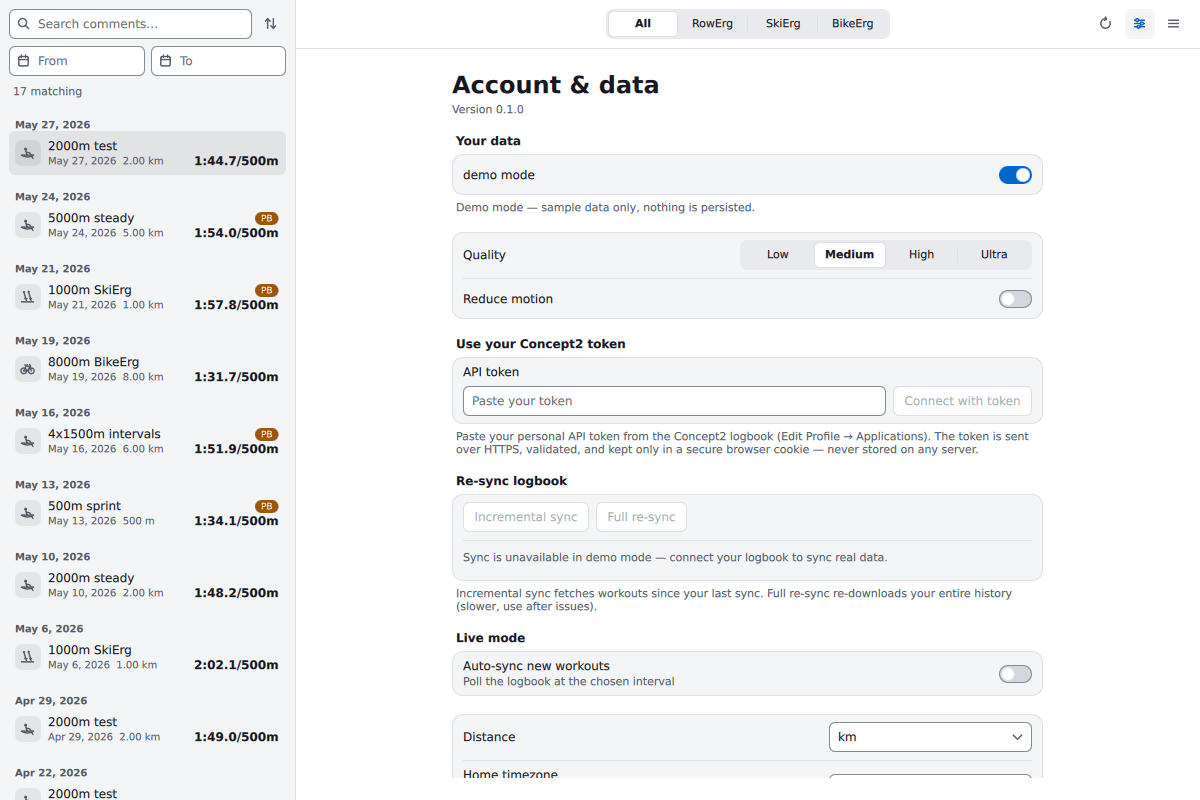
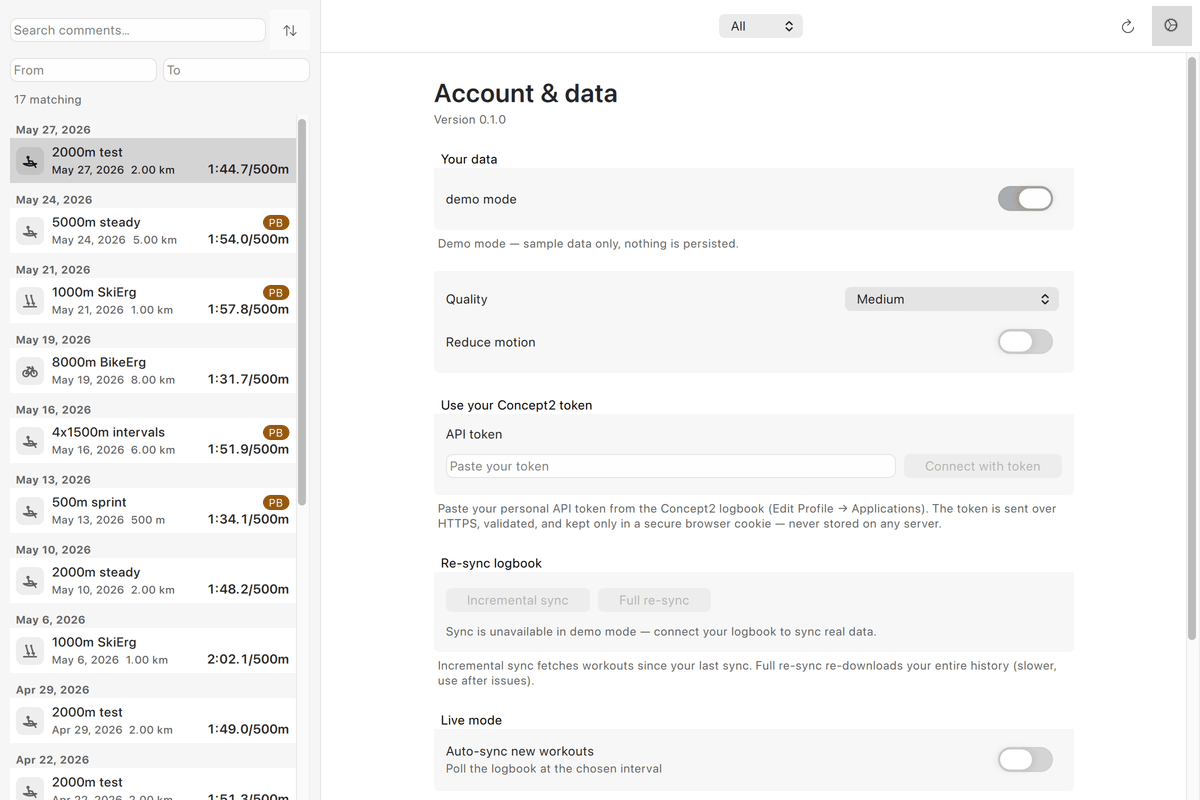
docs: the design system page, ADR 0015's verification record, round 3's notes and native README screenshots
docs/design-system.md holds the six principles (accessible by
construction; native by default; our identity lives in the content; Qt
before custom code; relative to the system; same product, native
manners). It also maps platform behaviour to the Qt API that provides it,
gives the style, icons, palette, checks and known issues per platform,
and lists what stays ours. AGENTS.md points UI work there first.

ADR 0015 records what was checked where:
- macOS natively: the full gate walk, the text-fit matrix, the large
  widths and real input through QtTest's TestEvent;
- Windows: CI's captures, where the Windows style is unreadable under the
  dark scheme and FluentWinUI3 is not;
- Linux: CI under Xvfb, with dark through Fusion on macOS;
- left for the owner: a non-blue accent, Increase Contrast and the native
  menu bar's roles.

ADR 0013 gets round 3's notes: what became of 2a to 2f once standard
controls went native. The README's screenshots are the native macOS
captures, light and dark, 1200 x 800 as before. The spec's T9 and the
roadmap follow.

diff --git a/docs/design-system.md b/docs/design-system.md
@@ -1,0 +1,104 @@
+# The design system
+
+rowplay-qt looks like each platform's app: its standard controls are Qt Quick
+Controls in the platform's own style. It looks like rowplay in its content:
+the charts, the metric colours, the tiles and personal-best cards, the splits
+table, and the 3D replay with its HUD.
+
+The decisions behind this page:
+- [ADR 0015](decisions/0015-native-qt-styles.md): native Qt styles for
+  standard controls.
+- [ADR 0013](decisions/0013-cross-platform-design-system.md): kept for the
+  type scale, the lengths, the width classes, the focus ring on our own
+  focusables and the contrast floors.
+
+The rules for writing QML are in [AGENTS.md](../AGENTS.md) ("Coding style"),
+and the history is in the spec `.kiro/specs/ui-native-styles/`.
+
+## Six principles
+
+1. **Accessible by construction.** Accessibility is built into every
+   control, not added after.
+   - Every control and tile has an `Accessible.name`, and the styles give
+     the controls their platform roles.
+   - Text meets 4.5:1 and our marks 3:1 on the surfaces they are drawn on,
+     and no text is set under `Theme.textFloor`.
+   - Focus is always visible: the style draws it on its controls and
+     `FocusRing` on ours.
+   - Nothing is conveyed by colour alone and nothing is reachable only by
+     hover.
+   - Motion stills under reduce motion.
+   - The replay HUD's controls answer within 40 px.
+2. **Native by default.**
+   - A standard control is the platform style's, used as it is: no
+     `background` or `contentItem` of ours.
+   - Icons are the platform's, named. A dialog's buttons follow the
+     platform's order. macOS gets its menu bar.
+3. **Our identity lives in the content.**
+   - The PM5 palette and the Metric Mapping Rule colour the metrics.
+   - Tiles, cards, the splits table, the charts and the replay are drawn
+     by us.
+   - That is where rowplay looks like rowplay.
+4. **Qt before custom code.** Where Qt has an API for a platform behaviour
+   (a shortcut, its notation, a dialog's buttons, an icon, the palette, a
+   responsive layout, a hit area), it is used before anything is written.
+   Custom components are for content. The few exceptions are bounded and
+   listed in ADR 0015.
+5. **Relative to the system.**
+   - Lengths and type scale from the system font.
+   - Surfaces, text and lines derive from the system palette, fitted to the
+     contrast floors.
+   - The accent is the system's. Light or dark follows the palette in use,
+     and high contrast follows the system's contrast preference.
+6. **Same product, native manners.** Every platform has the same screens,
+   strings, content and behaviour. The manners are each platform's own:
+   the controls, the icons, the shortcuts and their notation, the dialog
+   order and the menus.
+
+## Platform behaviour → Qt API
+
+| Platform behaviour | Qt API | Where |
+|---|---|---|
+| The platform's control look | No style forced, so Qt picks macOS, Windows or Fusion (`QQuickStyleSpec::resolve`) | no `qtquickcontrols2.conf` (ADR 0015) |
+| A control the style lacks (tool button, tool tip, drawer, pane, popup) | Qt's run-time fallback, Basic; the styles declare Fusion, but Basic wins | ADR 0015, "Context" |
+| Scroll bars (transient or not, as the system says) | the style's `ScrollBar`, through `ScrollView` | the screens and the sidebar |
+| Keyboard shortcuts | `Shortcut { sequences: [StandardKey.Find] }`, `StandardKey.Refresh`, `.Preferences`, `.Back`, `.Quit`, `.Close` | `Main.qml` |
+| A shortcut in the platform's notation | `Shortcut.nativeText` in the tooltip | `CommandButton` |
+| Icons | `icon.name`: SF Symbols through `QAppleIconEngine`, Segoe glyphs through `QWindowsIconEngine`, the freedesktop theme on Linux; `icon.source` (an SVG of our glyph) on Linux only, for a theme without the icon | `Glyphs.qml`, `CommandButton` |
+| A dialog's buttons and their order | `Dialog.standardButtons`, renamed with web strings as the dialog opens | About, the logout confirmation |
+| The macOS menu bar | `Qt.labs.platform` `MenuBar` with `AboutRole`, `PreferencesRole`, `QuitRole` | `Main.qml` (a `ToolButton` and `Menu` elsewhere) |
+| The system palette | `SystemPalette` (active, inactive and disabled groups), composited opaque | `Theme.qml`, the sidebar's selection |
+| Light or dark | the palette in use (`Theme.dark` from its window colour); `Qt.styleHints.colorScheme` only to pin it in tests | `Theme.qml`, `Main.qml` |
+| The accent | `SystemPalette.accent`, with the brand blue where a platform reports none | `Theme.accentColor` |
+| High contrast | `Qt.styleHints.accessibility.contrastPreference` (Qt 6.10) | `Theme.highContrast` |
+| Text size | `Qt.application.font`, as a ratio of a 13 px reference | `Theme.px`, `Theme.fontPx` |
+| Reduce motion | none in Qt 6.11; the app's own preference drives the motion tokens | `Theme.durationShort/Medium/Long` |
+| Screen readers | `Accessible.name`, `.description`, `.role` | every control and tile |
+| Responsive layouts | `Theme.widthClass` (M3's five classes, scaled with the text) and `LayoutItemProxy` | `Main.qml`, the detail, the dashboard |
+| Touch targets | `containmentMask` reaching past a control's edges | the replay HUD (`HitArea`) |
+| The busy spinner | `BusyIndicator`, except on macOS, where the style's needs the WebP plugin | the live-mode panel (`AppBusyIndicator` until then) |
+
+## Per platform
+
+| | macOS | Windows | Linux |
+|---|---|---|---|
+| Style | macOS (NSView-drawn) | Windows; FluentWinUI3 is opt-in, and CI captures both | Fusion |
+| Controls the style lacks | Basic | Basic | (Fusion has them) |
+| Icons | SF Symbols | Segoe Fluent Icons (Windows 11), Segoe MDL2 Assets | the desktop's freedesktop theme, then our SVG |
+| Palette | the system's | the system's | the platform theme's: the desktop portal's in the AppImage, the GTK or KDE theme's with a distribution's Qt |
+| How it is checked | natively, with the gate walk and scratch probes | CI captures in a real window (#81) | CI under Xvfb; dark through Fusion on macOS (Xvfb has no theme to ask) |
+| Known issues | the style's spinner needs the WebP plugin; the slider's track beyond the knob all but vanishes on a grey surface | the Windows style draws its controls light under the dark scheme, so their dark-scheme text is unreadable (the rows, the pop-up buttons, the fields); FluentWinUI3 draws both schemes | the AppImage lacks Qt Svg and the GTK 3 platform theme (proposed) |
+
+## What stays ours
+
+Content, drawn by us:
+- the charts (`ChartTheme`, `StrokeChart`) and `MetricTile`;
+- the personal-best cards and the splits table;
+- the replay scene and its HUD panel, with `AppSlider` as the scrubber;
+- `FocusRing` on our own focusables;
+- `Icon`, the glyphs drawn in content.
+
+Bounded exceptions to "native by default", each in ADR 0015:
+- a list delegate's content (the sidebar's rows);
+- the sidebar's split handle;
+- the live-mode spinner, until the WebP plugin ships.

diff --git a/docs/decisions/0015-native-qt-styles.md b/docs/decisions/0015-native-qt-styles.md
@@ -150,3 +150,38 @@ What Qt 6.11.2 does, read from its sources at the tag:
 - The native macOS `ScrollView` reserves room for a scroll bar that is not
   transient, so a replaced (Basic) scroll bar made `contentWidth:
   availableWidth` a binding loop; the style's own scroll bars are used.
+
+## What was checked where (2026-09-25)
+
+The page that applies this ADR is
+[`docs/design-system.md`](../design-system.md): the six principles, platform
+behaviour mapped to Qt API, and what stays ours.
+
+- **macOS, natively** (Apple M5, macOS 27, cocoa and Metal):
+  - **Gate walks:** the full walk in light, phase shots and close-ups
+    included, at the stack's top. In dark, the quick walk captures every
+    screen; its old shadow check then trips at 4.9 % on this base, as
+    AGENTS.md records.
+  - **Text fit:** five screens × English, Spanish and Japanese × three
+    widths, native light and dark, and 150 % text light and dark (180 runs).
+    - Nothing is flagged natively.
+    - At 150 % only Qt Graphs' own axis labels are flagged, as on the base.
+  - **Large windows:** 1200, 1440, 1600 and 1920 px, English and Japanese,
+    light and dark (32 runs), none flagged.
+  - **Real input** through QtTest's `TestEvent`:
+    - a switch row's label toggles its switch, and Replay opens;
+    - the replay HUD's hit areas answer beyond their controls;
+    - the speed choices take the arrows without seeking;
+    - Space on a speed choice leaves play alone.
+  - **Not checked here:** a non-blue accent, Increase Contrast and the
+    native menu bar's roles. They need the owner at the Mac: the agent
+    changes no System Settings, and a background process cannot bring the
+    app's window forward.
+- **Windows:** CI's captures in a real window (D3D11), both styles, light
+  and dark.
+  - The Windows style draws its controls light under the dark scheme, so the
+    dark scheme's light text on them is unreadable: the sidebar's rows, the
+    pop-up buttons, the fields and the buttons.
+  - FluentWinUI3 draws both schemes.
+- **Linux:** CI under Xvfb (Fusion, light). Dark was checked through Fusion
+  on macOS, because Xvfb has no platform theme to report dark.

diff --git a/docs/decisions/0013-cross-platform-design-system.md b/docs/decisions/0013-cross-platform-design-system.md
@@ -241,3 +241,35 @@ assessed but not implemented (#104).
   - macOS under "Increase contrast", which only the owner can switch;
   - Windows' four contrast themes, the focus ring's visibility, Snap
     layouts and text sizes (#81).
+
+## Round 3 notes (2026-09-25)
+
+Round 3 started as "adopt what fits from Material 3". Midway the owner
+moved standard controls to Qt's native styles (ADR 0015), which re-scoped
+the M3 items:
+
+- **2a, colour roles (narrowed to content):** the metric, chart, tile and
+  HUD colours derive from the system palette and are fitted to their
+  floors (`fitContrast`, `paletteColour`); no accent tones for controls.
+- **2b, state layers (dropped):** the styles draw their own states.
+- **2c, 3:1 non-text contrast (narrowed to content):** the chart axes and
+  our components' outlines (`chartAxis`, `controlBorder`) are fitted to
+  3:1 on their surfaces.
+  - The replay speed's checked state, drawn by Basic's tool button,
+    measured 1.05:1 in dark, so its label turns bold. That way the choice
+    is not conveyed by colour alone.
+- **2d, large and extra-large layouts (kept):** the width classes are
+  M3's five.
+  - The detail opens M3's supporting pane and the dashboard its feed.
+  - Content stops at 1440 px and running text at 640 px, scaled.
+- **2e, motion tokens (kept, for content):** three durations and M3's
+  standard and emphasized-decelerate curves, all 0 under reduce motion.
+- **2f, target sizes (narrowed to the replay HUD):** every HUD control
+  answers within 40 px through a containment mask, with no two hit areas
+  overlapping under the macOS style or Fusion.
+
+Not adopted, as the round planned: ripples, Roboto, elevation, M3
+Expressive and the Material style.
+
+The details and the per-PR record are in `.kiro/specs/ui-native-styles/`
+and `docs/design-system.md`.

diff --git a/.kiro/specs/ui-native-styles/tasks.md b/.kiro/specs/ui-native-styles/tasks.md
@@ -156,4 +156,26 @@ pull request that delivers it.
     comments and the settings page at `readableWidth`.
   - [x] T8.5 Checked at 1200, 1440, 1600 and 1920 px, light and dark,
     English and Japanese: every text item fits (32 runs, none flagged).
-- [ ] T9 Documentation and the full verification matrix (R8, R9).
+- [ ] T9 (`docs/native-design-system`) Documentation and the full
+  verification matrix (R8, R9). Open: T9.4.
+  - [x] T9.1 `docs/design-system.md`: the six principles, platform
+    behaviour → Qt API, per platform with its known issues, and what stays
+    ours. AGENTS.md sends UI work there first.
+  - [x] T9.2 ADR 0015's "What was checked where"; ADR 0013's round-3
+    notes; the README's screenshots, now the native macOS captures.
+  - [x] T9.3 R8.1 on macOS:
+    - the full gate walk, light, at the stack's top;
+    - the text-fit matrix: five screens, three languages, three widths,
+      native light and dark, 150 % light and dark; nothing flagged
+      natively, and only Qt Graphs' axis labels at 150 %, as on the base;
+    - the large widths;
+    - real input through QtTest's `TestEvent`. It found that the HUD's
+      masks answered `contains()` but not real clicks; the fix is in #114,
+      with cherry-picks in #115 and #116.
+  - [ ] T9.4 R8.1 by the owner: a non-blue accent, Increase Contrast and
+    the native menu bar's roles.
+  - [x] T9.5 R8.2 Windows: CI's captures looked at. The Windows style is
+    unreadable under the dark scheme; FluentWinUI3 is not, so it is
+    proposed in its own pull request.
+  - [x] T9.6 R8.3 Linux: CI's Xvfb captures (Fusion, light) looked at;
+    dark through Fusion on macOS.

diff --git a/AGENTS.md b/AGENTS.md
@@ -28,7 +28,7 @@ packaging/                 # Phase 9 manifests: macOS Info.plist, Linux .desktop
 i18n/                      # generated ID-based Qt .ts catalogues (never hand-edited; see "Internationalisation")
 tools/                     # asset / locale / fixture pipeline scripts (Python, Node, Blender); tools/package/ builds the installers
 tests/fixtures/            # golden parity JSON from rowplay-studio + manifest.json + PROVENANCE.md
-docs/                      # roadmap.md, source-map.md, qt-bridges-notes.md, decisions/ (ADRs)
+docs/                      # roadmap.md, source-map.md, qt-bridges-notes.md, design-system.md, decisions/ (ADRs)
 .kiro/specs/               # per-phase requirements / design / tasks
 reference/                 # git-ignored checkouts of rowplay and rowplay-studio (never committed)
 ```
@@ -41,9 +41,10 @@ add vendor-specific guides unless a tool cannot read `AGENTS.md`.
 
 Before coding read `docs/roadmap.md`, `docs/source-map.md`,
 `docs/qt-bridges-notes.md`, the ADRs in `docs/decisions/` and the phase spec
-under `.kiro/specs/`. At session start check out the reference repositories at
-current `main` into `reference/` and record both SHAs in `docs/source-map.md`;
-copy only what you need, with provenance (source repo, path, commit, SHA-256).
+under `.kiro/specs/`, and before any UI work `docs/design-system.md`. At
+session start check out the reference repositories at current `main` into
+`reference/` and record both SHAs in `docs/source-map.md`; copy only what you
+need, with provenance (source repo, path, commit, SHA-256).
 
 ## Build, test and development commands
 

diff --git a/docs/roadmap.md b/docs/roadmap.md
@@ -1236,3 +1236,16 @@ requests on the round-2 stack's composed top:
    maximum width once they fit one row, the content stops at 1440 px
    centred, and running text at 640 px. Checked at 1200, 1440, 1600 and
    1920 px in English and Japanese, light and dark.
+9. `docs/native-design-system`: `docs/design-system.md` (the six
+   principles, platform behaviour → Qt API, per platform), ADR 0015's
+   verification record, ADR 0013's round-3 notes, and the README's native
+   screenshots.
+   - The verification's real input (QtTest's `TestEvent`) found the HUD's
+     hit areas answering `contains()` but not clicks. Qt 6.11 prunes an
+     item from delivery outside its rectangle plus its handlers' margins,
+     so #114 now adds a passive `HoverHandler` margin.
+   - CI's Windows captures show the Windows style unreadable under the
+     dark scheme, while FluentWinUI3 is not; switching is proposed in its
+     own pull request.
+   - Left for the owner at the Mac: a non-blue accent, Increase Contrast
+     and the native menu bar's roles.

diff --git a/README.md b/README.md
@@ -89,7 +89,11 @@ See [`docs/roadmap.md`](docs/roadmap.md) for every phase.
 
 ![Phase 0 smoke scene](docs/screenshots/phase-00-smoke.png)
 
-The current UI, with demo data. It follows the system's light or dark
+The current UI on macOS, with demo data. Standard controls are each
+platform's own: the macOS style here, the Windows style on Windows and Fusion
+on Linux. The content (charts, metric colours, tiles, the replay) is the same
+everywhere ([ADR 0015](docs/decisions/0015-native-qt-styles.md),
+[design system](docs/design-system.md)). It follows the system's light or dark
 scheme (pinned here with `ROWPLAY_FORCE_COLOR_SCHEME`).
 
 | Dashboard | Workout detail, dark |
